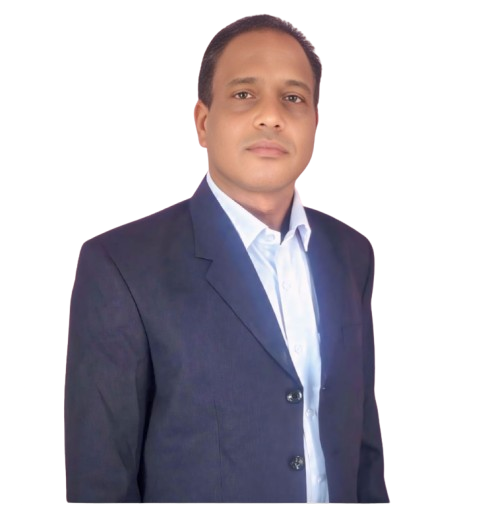
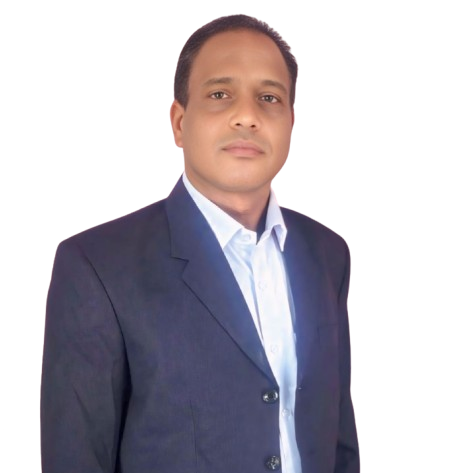
Updated image position

Changed region(s): [[0.0621, 0.0296, 0.8071, 1.0], [0.6208, 0.0888, 0.6519, 0.1184]]

diff --git a/src/app/partners/page.tsx b/src/app/partners/page.tsx
@@ -51,7 +51,9 @@ const Partners = () => {
 													loading="eager"
 													src={member.image}
 													alt={member.name}
-													className="w-full h-full object-cover"
+													className={`w-full h-full object-cover ${
+														index === 2 ? "mt-6 " : ""
+													}`}
 													width={140}
 													height={140}
 													quality={100}

diff --git a/src/components/Navbar.tsx b/src/components/Navbar.tsx
@@ -64,7 +64,7 @@ const Header = () => {
 							/>
 						</div>
 						<span
-							className={`${roboto.className} text-white font-normal text-xl`}
+							className={`${roboto.className} text-white font-normal text-2xl`}
 						>
 							Signature Asia&apos;s
 						</span>
